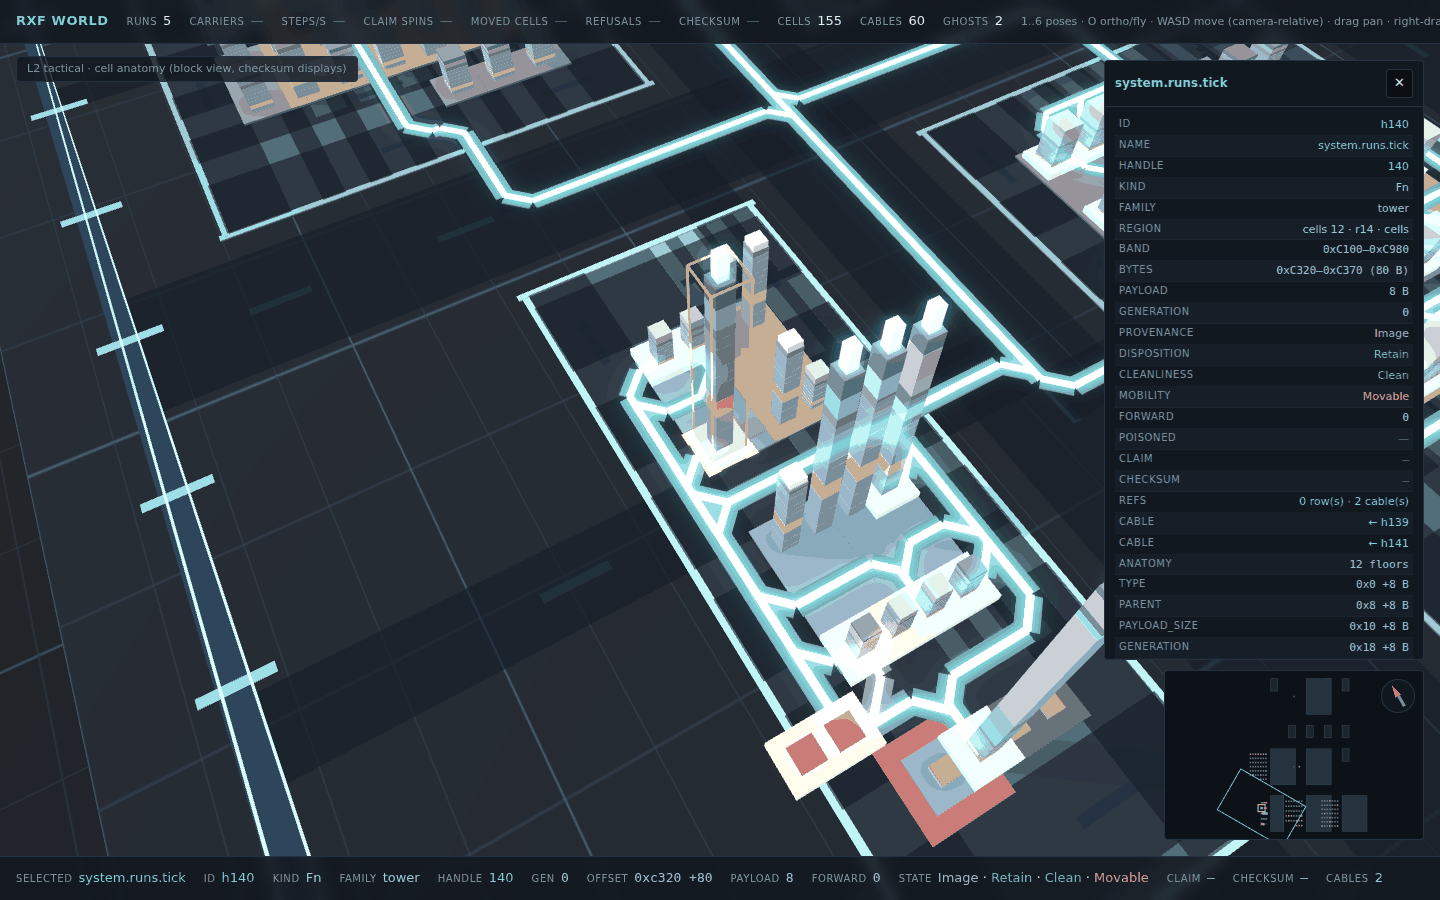
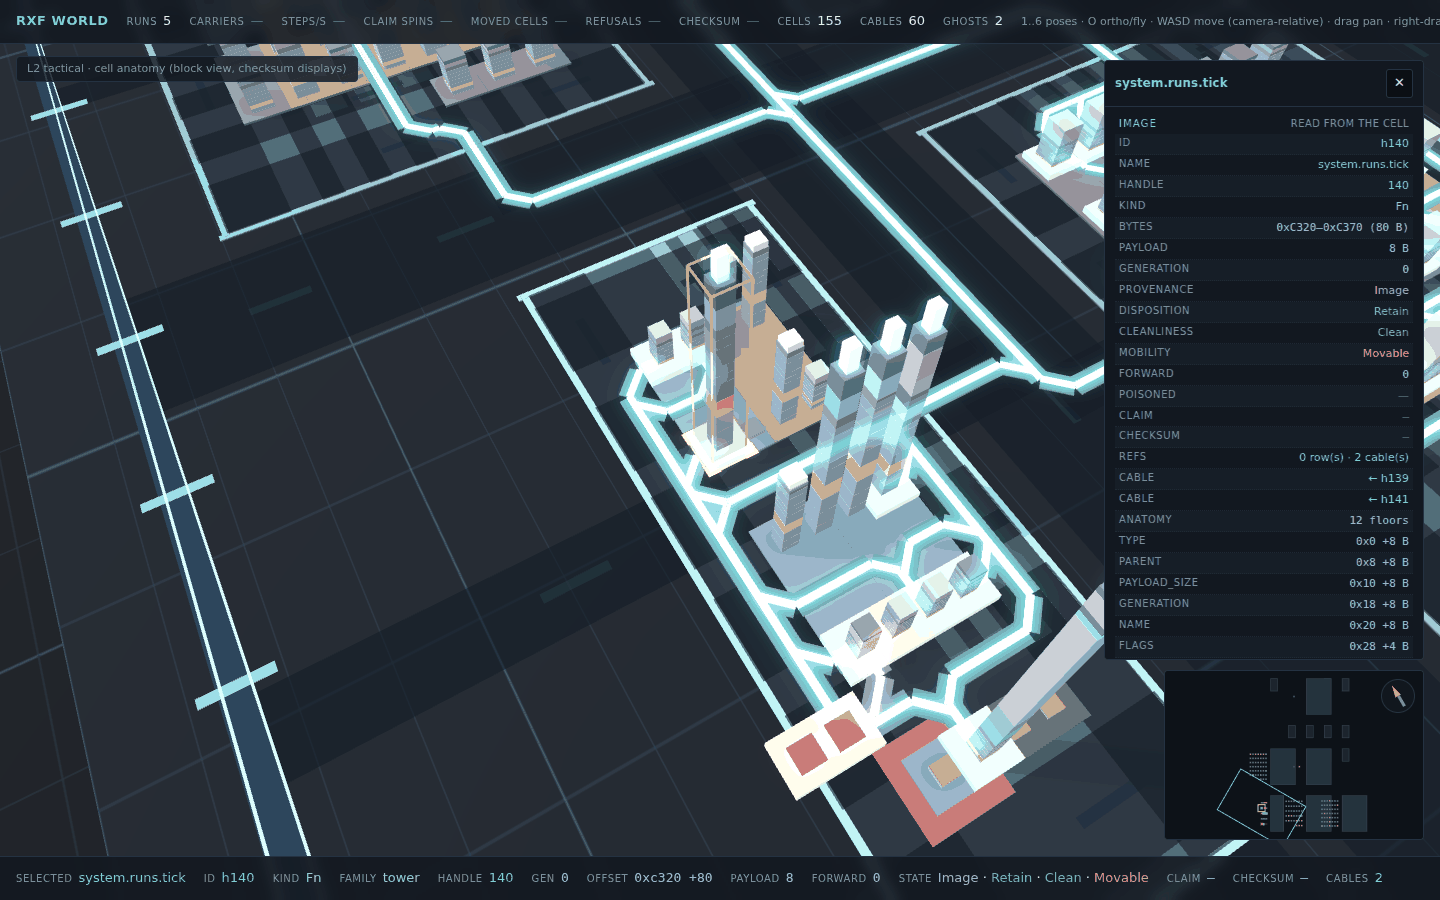
feat(world): the datasheet says who speaks - image facts vs the view's reading
The pane mixed the cell's own facts with the view's classifications as equal
rows. Two provenance groups now: 'image - read from the cell' holds what the
image says (state bits decoded from ground.h, spans, words, cables, and the
byte anatomy - the floor values are real addresses; only the word 'floors'
is ours), and 'world - the view's own reading' holds what we decided: the
paint family (the image never said 'tower'), the district grid, the band
assignment. Group heads name the speaker (teal for the image, the provenance
violet for our reading); rows collect inside their group so the zebra runs
per group.

Prove: test_world3d 25/25, node --check clean, one capture run regenerated
the shots - the datasheet proof shows the two groups

diff --git a/src/pymergetic/rxf/world/static/scene/rxf-world-hud.js b/src/pymergetic/rxf/world/static/scene/rxf-world-hud.js
@@ -210,6 +210,27 @@
     body.appendChild(line);
   }
 
+  function datasheetGroup(body, name, note) {
+    /* a provenance group: "image" holds what the cell says, "world" what the view decided.
+     * Rows collect inside the group (they are appended to it, not to the body), so the zebra
+     * stripes run per group and the heads stand outside them. */
+    var group = global.document.createElement("div");
+    group.className = "datasheet-group";
+    var head = global.document.createElement("div");
+    head.className = "datasheet-group-head";
+    var label = global.document.createElement("span");
+    label.className = "datasheet-group-name";
+    label.textContent = name;
+    var hint = global.document.createElement("span");
+    hint.className = "datasheet-group-note";
+    hint.textContent = note;
+    head.appendChild(label);
+    head.appendChild(hint);
+    group.appendChild(head);
+    body.appendChild(group);
+    return group;
+  }
+
   function hex(byteOffset) {
     return "0x" + Number(byteOffset).toString(16).toUpperCase();
   }
@@ -278,7 +299,9 @@
     },
     sheet: function (payload) {
       /* the datasheet side pane: every field the image knows about the selected cell, plus
-       * its cable list and its floor-stack anatomy. Seams show "—" and say so in grey. */
+       * its cable list and its floor-stack anatomy. Seams show "—" and say so in grey. The rows
+       * are split by who says them: "image" rows are read from the cell, "world" rows are this
+       * view's own reading — our classifications never pass as the image's facts. */
       var pane = global.document.getElementById("rxf-world-datasheet");
       if (!pane) return;
       if (!payload) {
@@ -290,58 +313,64 @@
       var region = payload.region;
       body.textContent = "";
       slot("[data-datasheet-title]", cell.path || cell.name || cell.id);
-      datasheetRow(body, "id", value(cell.id));
-      datasheetRow(body, "name", value(cell.path || cell.name));
-      datasheetRow(body, "handle", value(cell.handle));
-      datasheetRow(body, "kind", value(cell.kind));
-      datasheetRow(body, "family", value(cell.family));
-      datasheetRow(
-        body,
-        "region",
-        region ? region.name + " · " + region.id + " · " + region.band : value(cell.region)
-      );
-      if (region) {
-        datasheetRow(body, "band", hex(region.start) + "–" + hex(region.end));
-      }
-      datasheetRow(body, "bytes", hex(cell.offset) + "–" + hex(cell.offset + cell.size) + " (" + cell.size + " B)");
-      datasheetRow(body, "payload", cell.payload_size + " B");
-      datasheetRow(body, "generation", value(cell.generation));
+      /* the image group: what the cell itself says — state bits, spans, words, cables, and the
+       * byte anatomy (the floor VALUES are real addresses; only the word "floors" is ours) */
+      var image = datasheetGroup(body, "image", "read from the cell");
+      datasheetRow(image, "id", value(cell.id));
+      datasheetRow(image, "name", value(cell.path || cell.name));
+      datasheetRow(image, "handle", value(cell.handle));
+      datasheetRow(image, "kind", value(cell.kind));
+      datasheetRow(image, "bytes", hex(cell.offset) + "–" + hex(cell.offset + cell.size) + " (" + cell.size + " B)");
+      datasheetRow(image, "payload", cell.payload_size + " B");
+      datasheetRow(image, "generation", value(cell.generation));
       if (cell.state) {
-        datasheetRow(body, "provenance", value(cell.state.provenance));
-        datasheetRow(body, "disposition", value(cell.state.disposition));
-        datasheetRow(body, "cleanliness", value(cell.state.cleanliness));
-        datasheetRow(body, "mobility", value(cell.state.mobility));
+        datasheetRow(image, "provenance", value(cell.state.provenance));
+        datasheetRow(image, "disposition", value(cell.state.disposition));
+        datasheetRow(image, "cleanliness", value(cell.state.cleanliness));
+        datasheetRow(image, "mobility", value(cell.state.mobility));
       } else {
-        datasheetRow(body, "state", "—", true);
+        datasheetRow(image, "state", "—", true);
       }
-      datasheetRow(body, "forward", cell.forward ? "C_FORWARD " + cell.forward : "0");
+      datasheetRow(image, "forward", cell.forward ? "C_FORWARD " + cell.forward : "0");
       /* poisoned is the one row where "yes" is the bad hue and "—" is a seam */
-      datasheetRow(body, "poisoned", cell.poisoned ? "yes" : "—", !cell.poisoned, cell.poisoned ? "v-bad" : "");
-      datasheetRow(body, "claim", value(cell.claim), cell.claim === null || cell.claim === undefined);
+      datasheetRow(image, "poisoned", cell.poisoned ? "yes" : "—", !cell.poisoned, cell.poisoned ? "v-bad" : "");
+      datasheetRow(image, "claim", value(cell.claim), cell.claim === null || cell.claim === undefined);
       datasheetRow(
-        body,
+        image,
         "checksum",
         value(cell.checksum),
         cell.checksum === null || cell.checksum === undefined
       );
-      datasheetRow(body, "refs", value(cell.ref_count) + " row(s) · " + payload.edges.length + " cable(s)");
+      datasheetRow(image, "refs", value(cell.ref_count) + " row(s) · " + payload.edges.length + " cable(s)");
       for (var edge of payload.edges.slice(0, 8)) {
         var way = edge.from === cell.id ? "→ " + edge.to : "← " + edge.from;
         /* cables in the accent; a ghost cable is the bad hue (it leads nowhere) */
-        datasheetRow(body, "cable", way + (edge.stale ? " (ghost)" : ""), edge.stale, edge.stale ? "v-bad" : "v-accent");
+        datasheetRow(image, "cable", way + (edge.stale ? " (ghost)" : ""), edge.stale, edge.stale ? "v-bad" : "v-accent");
       }
       if (payload.edges.length > 8) {
-        datasheetRow(body, "cable", "+" + (payload.edges.length - 8) + " more", true);
+        datasheetRow(image, "cable", "+" + (payload.edges.length - 8) + " more", true);
       }
       if (cell.anatomy && cell.anatomy.length) {
-        datasheetRow(body, "anatomy", cell.anatomy.length + " floors");
+        datasheetRow(image, "anatomy", cell.anatomy.length + " floors");
         for (var band of cell.anatomy.slice(0, 12)) {
           /* the anatomy floors are byte addresses: the data hue, in mono */
-          datasheetRow(body, band.role, hex(band.offset) + " +" + band.size + " B", false, "v-data");
+          datasheetRow(image, band.role, hex(band.offset) + " +" + band.size + " B", false, "v-data");
         }
         if (cell.anatomy.length > 12) {
-          datasheetRow(body, "floors", "+" + (cell.anatomy.length - 12) + " more", true);
+          datasheetRow(image, "floors", "+" + (cell.anatomy.length - 12) + " more", true);
         }
+      }
+      /* the world group: what this view decided — the paint family, the district grid, the
+       * band assignment. The image never said "tower"; we did. */
+      var world = datasheetGroup(body, "world", "the view's own reading");
+      datasheetRow(world, "family", value(cell.family));
+      datasheetRow(
+        world,
+        "region",
+        region ? region.name + " · " + region.id + " · " + region.band : value(cell.region)
+      );
+      if (region) {
+        datasheetRow(world, "band", hex(region.start) + "–" + hex(region.end));
       }
       pane.classList.add("open");
     },

diff --git a/src/pymergetic/rxf/world/static/scene/rxf-world.css b/src/pymergetic/rxf/world/static/scene/rxf-world.css
@@ -334,6 +334,41 @@ body {
   color: var(--seam); /* a seam shows "—", never a lie */
 }
 
+/* the provenance groups: "image" rows say what the cell says, "world" rows say what this
+ * view decided. The head names the speaker; the note says how to read it. */
+.datasheet-group + .datasheet-group {
+  margin-top: 6px;
+}
+
+.datasheet-group-head {
+  display: flex;
+  justify-content: space-between;
+  gap: 12px;
+  padding: 7px 4px 3px;
+  border-top: 1px solid var(--line);
+  font-size: 10px;
+  letter-spacing: 0.12em;
+  text-transform: uppercase;
+}
+
+.datasheet-group:first-child .datasheet-group-head {
+  border-top: 0;
+  padding-top: 2px;
+}
+
+.datasheet-group-name {
+  color: var(--accent); /* the image's facts, in the identity hue */
+}
+
+.datasheet-group + .datasheet-group .datasheet-group-name {
+  color: var(--v-prov); /* our own reading, in the provenance hue */
+}
+
+.datasheet-group-note {
+  color: var(--muted);
+  letter-spacing: 0.04em;
+}
+
 /* the semantic value colors: what kind of fact the value is, at a glance */
 .datasheet-value.v-accent {
   color: var(--accent); /* the object's identity: path, handle, refs, cables */

diff --git a/src/pymergetic/rxf/world/templates/world.html b/src/pymergetic/rxf/world/templates/world.html
@@ -8,7 +8,7 @@
        locally (vendored Babylon under static/vendor) — no remote references, no network at runtime.
        The page is one surface of the ONE shell (docs/21): same service, same nav, same live slot. -->
   <link rel="stylesheet" href="/static/ui/ui.css">
-  <link rel="stylesheet" href="static/scene/rxf-world.css?v=20261015b">
+  <link rel="stylesheet" href="static/scene/rxf-world.css?v=20261015c">
   <style>
     /* the shell chrome above the full-bleed scene: one column, the world takes what the bar and
        the face note leave. rxf-world.css sizes body/#rxf-world to the full height on its own;
@@ -113,7 +113,7 @@
     {"sceneUrl": "scene.json?v=20261015b", "fallbackUrl": "static/scene/demo-scene.json?v=20261015b", "pose": "overview"}
   </script>
   <script src="static/vendor/babylon/babylon.js?v=20261015b"></script>
-  <script src="static/scene/rxf-world-hud.js?v=20261015b"></script>
+  <script src="static/scene/rxf-world-hud.js?v=20261015c"></script>
   <script src="static/scene/rxf-world.js?v=20261015b"></script>
   <script src="/static/ui/ui.js"></script>
 </body>

diff --git a/src/pymergetic/rxf/world/static/scene/index.html b/src/pymergetic/rxf/world/static/scene/index.html
@@ -7,7 +7,7 @@
     <!-- The static demo entry: the same page templates/world.html builds, pointed at the
          checked-in demo world. Same slots, same scripts, same boot (rxf-world.js reads
          #rxf-world-config and wires RXFWorldHud itself). -->
-    <link rel="stylesheet" href="rxf-world.css?v=20261015b" />
+    <link rel="stylesheet" href="rxf-world.css?v=20261015c" />
     <script>
       /* failures before (or while) the scene boots still land somewhere: the HUD error slot */
       window.__rxErrors = [];
@@ -78,7 +78,7 @@
       {"sceneUrl": "demo-scene.json?v=20261015b", "fallbackUrl": "demo-scene.json?v=20261015b", "pose": "overview"}
     </script>
     <script src="../vendor/babylon/babylon.js?v=20261015b"></script>
-    <script src="rxf-world-hud.js?v=20261015b"></script>
+    <script src="rxf-world-hud.js?v=20261015c"></script>
     <script src="rxf-world.js?v=20261015b"></script>
   </body>
 </html>
